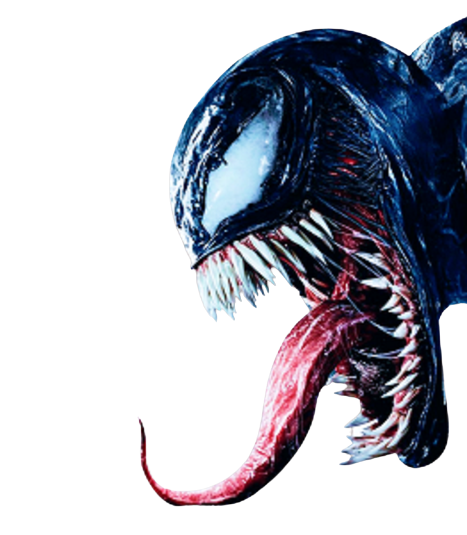
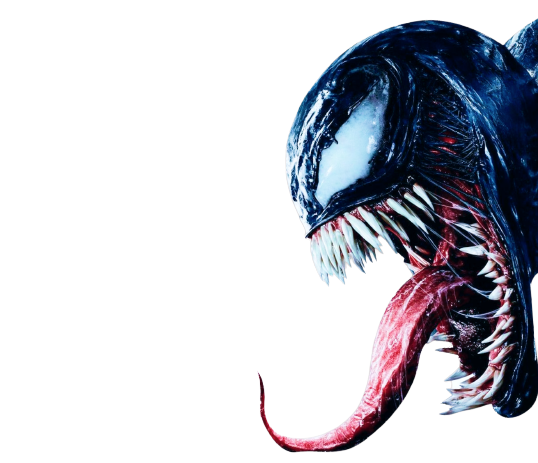
редактирование обложек

diff --git a/src/html/index.html b/src/html/index.html
@@ -111,7 +111,7 @@
             <div class="portfolio__work work" data-modal="#modal_archee">
               <!-- Далее нужно для каждой работы создавать отдельное модальное окно -->
               <div class="work__box-img">
-                <img class="work__image" src="./img/projects/archee/main.jpg" alt="Project photo" />
+                <img class="work__image" src="./img/projects/archee/main.png" alt="Project photo" />
               </div>
               <div class="work__content">
                 <p class="work__cat">Категория: Лэндинги</p>
@@ -127,12 +127,12 @@
             <div class="portfolio__work work" data-modal="#modal_oxygen">
               <!-- Далее нужно для каждой работы создавать отдельное модальное окно -->
               <div class="work__box-img">
-                <img class="work__image" src="./img/projects/oxygen/main-screen.jpg" alt="Project photo" />
+                <img class="work__image" src="./img/projects/oxygen/main.png" alt="Project photo" />
               </div>
               <div class="work__content">
                 <p class="work__cat">Категория: Лэндинги</p>
                 <h3 class="work__title">
-                  <span class="work__title--left">Oxygen</span>
+                  <span class="work__title--left">Ген спорта</span>
                   <time class="work__date" datetime="2021-10-21 11:45"> 2021 </time>
                 </h3>
               </div>
@@ -159,7 +159,7 @@
             <div class="portfolio__work work" data-modal="#modal_project_1">
               <!-- Далее нужно для каждой работы создавать отдельное модальное окно -->
               <div class="work__box-img">
-                <img class="work__image" src="./img/projects/thrivetalk/main_pic.jpg" alt="Project photo" />
+                <img class="work__image" src="./img/projects/thrivetalk/main.png" alt="Project photo" />
               </div>
               <div class="work__content">
                 <p class="work__cat">Категория: Лэндинги</p>
@@ -175,7 +175,7 @@
             <div class="portfolio__work work" data-modal="#modal_sea-products">
               <!-- Добавление проекта в категорию "Проекты с элементами интерфейса на javaScript" -->
               <div class="work__box-img">
-                <img class="work__image" src="./img/projects/sea-products/sea-products.jpg" alt="Project photo" />
+                <img class="work__image" src="./img/projects/sea-products/main.png" alt="Project photo" />
               </div>
               <div class="work__content">
                 <p class="work__cat">Категория: Лэндинги</p>
@@ -192,7 +192,7 @@
             <div class="portfolio__work work" data-modal="#modal_delivery">
               <!-- Далее нужно для каждой работы создавать отдельное модальное окно -->
               <div class="work__box-img">
-                <img class="work__image" src="./img/projects/delivery-food/Delivery_food-main-pic.jpg" alt="Project photo" />
+                <img class="work__image" src="./img/projects/delivery-food/main.png" alt="Project photo" />
               </div>
               <div class="work__content">
                 <p class="work__cat">Категория: Лэндинги</p>
@@ -208,7 +208,7 @@
             <div class="portfolio__work work" data-modal="#modal_rolls">
               <!-- Добавление проекта в категорию "Проекты с элементами интерфейса на javaScript" -->
               <div class="work__box-img">
-                <img class="work__image work__image-rolls" src="./img/projects/rolls-scripts/rolls.jpg" alt="Project photo" />
+                <img class="work__image work__image-rolls" src="./img/projects/rolls-scripts/main.png" alt="Project photo" />
               </div>
               <div class="work__content">
                 <p class="work__cat">Категория: Проекты с элементами интерфейса на javaScript</p>
@@ -239,7 +239,7 @@
           <div class="portfolio__col portfolio__show" data-cat="interface">
             <div class="portfolio__work work" data-modal="#modal_convert">
               <div class="work__box-img">
-                <img class="work__image" src="./img/projects/convert/main-pic.jpg" alt="Project photo" />
+                <img class="work__image" src="./img/projects/convert/main.png" alt="Project photo" />
               </div>
               <div class="work__content">
                 <p class="work__cat">Категория: Проекты с элементами интерфейса на javaScript</p>
@@ -288,29 +288,13 @@
             <div class="portfolio__work work" data-modal="#modal_calc">
               <!-- Добавление проекта в категорию "Проекты с элементами интерфейса на javaScript" -->
               <div class="work__box-img">
-                <img class="work__image" src="./img/projects/calculator/Calc_main-pic.jpg" alt="Project photo" />
+                <img class="work__image" src="./img/projects/calculator/main.png" alt="Project photo" />
               </div>
               <div class="work__content">
                 <p class="work__cat">Категория: Проекты с элементами интерфейса на javaScript</p>
                 <h3 class="work__title">
                   <span class="work__title--left"> Калькулятор стоимости ремонта на JavaScript </span>
                   <time class="work__date" datetime="2021-10-18 14:01"> 2021 </time>
-                </h3>
-              </div>
-            </div>
-          </div>
-          <!-- .portfolio__col -->
-          <div class="portfolio__col portfolio__show" data-cat="interface">
-            <div class="portfolio__work work" data-modal="#modal_quize">
-              <!-- Добавление проекта в категорию "Проекты с элементами интерфейса на javaScript" -->
-              <div class="work__box-img">
-                <img class="work__image" src="./img/projects/quize/quize_main.jpg" alt="Project photo" />
-              </div>
-              <div class="work__content">
-                <p class="work__cat">Категория: Проекты с элементами интерфейса на javaScript</p>
-                <h3 class="work__title">
-                  <span class="work__title--left"> Квиз "Бургер мечты" на JavaScript </span>
-                  <time class="work__date" datetime="2021-04-13 10:27"> 2021 </time>
                 </h3>
               </div>
             </div>
@@ -1470,111 +1454,6 @@
                   <a class="modal-list__link" href="https://github.com/DennyMaverick/Convertation_project" target="_blank"> Ссылка на репозиторий GitHub </a>
                 </li>
                 <li class="modal-list__item">Время на работу ~ 2.5 ч</li>
-              </ul>
-            </div>
-            <!--modal-work__text -->
-            <div class="modal-work__footer">
-              <button class="modal-work__btn slickPrev modal-work__btn--text" type="button">Назад</button>
-              <button class="modal-work__btn modal-work__btn--text slickNext" type="button">Вперед</button>
-            </div>
-            <a href="#" class="modal-work__arrow-up up" title="Наверх">
-              <svg class="modal-work__arrow-up-pic" alt="arrow up">
-                <use xlink:href="./img/sprite/symbol/sprite.svg#arrows--arrow-up" />
-              </svg>
-            </a>
-          </div>
-          <!--modal-work__content -->
-        </div>
-        <!--modal-work -->
-      </div>
-      <!-- modal__dialog-->
-    </div>
-    <!-- modal -->
-    <div class="modal" id="modal_quize">
-      <div class="modal__dialog">
-        <div class="theme theme--modal theme--sticky">
-          <svg class="switcher theme__icon theme__light" data-theme="light">
-            <use xlink:href="./img/sprite/symbol/sprite.svg#theme--light-icon"></use>
-          </svg>
-          <svg class="switcher theme__icon theme__dark" data-theme="dark">
-            <use xlink:href="./img/sprite/symbol/sprite.svg#theme--dark-icon"></use>
-          </svg>
-          <button class="theme__close-btn" type="button" data-close>
-            <svg class="theme__close" alt="Close button">
-              <use xlink:href="./img/sprite/symbol/sprite.svg#modal--modal-close" />
-            </svg>
-          </button>
-        </div>
-        <div class="modal__modal-work modal-work">
-          <div class="modal-work__preview">
-            <div class="modal-work__slider slider" data-slider="slick">
-              <div class="slider__item">
-                <img class="modal-work__photo" src="./img/projects/quize/slide_01.jpg" alt="Project-photo" />
-              </div>
-              <div class="slider__item">
-                <img class="modal-work__photo" src="./img/projects/quize/slide_02.jpg" alt="Project-photo" />
-              </div>
-              <div class="slider__item">
-                <img class="modal-work__photo" src="./img/projects/quize/slide_03.jpg" alt="Project-photo" />
-              </div>
-              <div class="slider__item">
-                <img class="modal-work__photo" src="./img/projects/quize/slide_04.jpg" alt="Project-photo" />
-              </div>
-              <div class="slider__item">
-                <img class="modal-work__photo" src="./img/projects/quize/slide_05.jpg" alt="Project-photo" />
-              </div>
-              <div class="slider__item">
-                <img class="modal-work__photo" src="./img/projects/quize/slide_06.jpg" alt="Project-photo" />
-              </div>
-            </div>
-          </div>
-          <div class="modal-work__content">
-            <div class="modal-work__header">
-              <h3 class="modal-work__title">Квиз "Бургер мечты" на JavaScript</h3>
-              <div class="modal-work__info">
-                Проекты с элементами интерфейса на javaScript
-                <span class="modal-work__info-divider">|</span>
-                2021
-              </div>
-            </div>
-            <!-- modal-work__header -->
-            <div class="modal-work__client">
-              <div class="modal-work__client-title">Учебный проект:</div>
-              <div class="modal-work__client-company">Web-школа Glo Academy</div>
-            </div>
-            <div class="modal-work__text">
-              <p class="modal-work__description">При работе над проектом был реализован следующий функционал:</p>
-              <div class="modal-work__show-info show-more">
-                <input type="checkbox" id="show-more_8" class="show-more__input">
-                <label class="show-more__trigger" for="show-more_8">
-                  <span class="show-more__desc">Более подробно</span>
-                  <svg class="show-more__arrow">
-                    <use xlink:href="./img/sprite/symbol/sprite.svg#modal--show-modal-right" />
-                  </svg>
-                </label>
-                <div class="show-more__content">
-                  <ul class="modal-work__list modal-list">
-                    <li class="modal-list__item">При клике на кнопку "Пройди тест и получи результат" или - когда экран небольшой(планшет, смартфон) - при клике на бургер-меню запускается тест в модальном окне, где можно собрать свой бургер, подбирая нужные ингридиенты</li>
-                    <li class="modal-list__item">В конце теста высвечивается окно, в котором появляется надпись, что в течение 15 минут с пользователем свяжутся менеджеры</li>
-                    <li class="modal-list__item">После прохождения теста все ответы собираются в один общий объект</li>
-                    <li class="modal-list__item">Модальное окно закрывается при нажатии на крестик или при клике вне модального окна</li>
-                  </ul>
-                  <p class="modal-work__description">Работая над данным проектом, были использованы следующие инструменты, технологии:</p>
-                  <ul class="modal-work__list modal-list">
-                    <li class="modal-list__item">Редактор кода: Visual Studio Code</li>
-                    <li class="modal-list__item">JavaScript</li>
-                    <li class="modal-list__item">Css / HTML</li>
-                  </ul>
-                </div>
-              </div>
-              <ul class="modal-work__list modal-list">
-                <li class="modal-list__item">
-                  <a class="modal-list__link" href="https://dennymaverick.github.io/quize_dream-burger/index.html" target="_blank"> Ccылка на проект </a>
-                </li>
-                <li class="modal-list__item">
-                  <a class="modal-list__link" href="https://github.com/DennyMaverick/quize_dream-burger" target="_blank"> Ссылка на репозиторий GitHub </a>
-                </li>
-                <li class="modal-list__item">Время на работу ~ 7 ч</li>
               </ul>
             </div>
             <!--modal-work__text -->

diff --git a/src/js/modules/content-show-modal.js b/src/js/modules/content-show-modal.js
@@ -17,3 +17,5 @@ modals.forEach((modal) => {
     })
   })
 })
+
+
